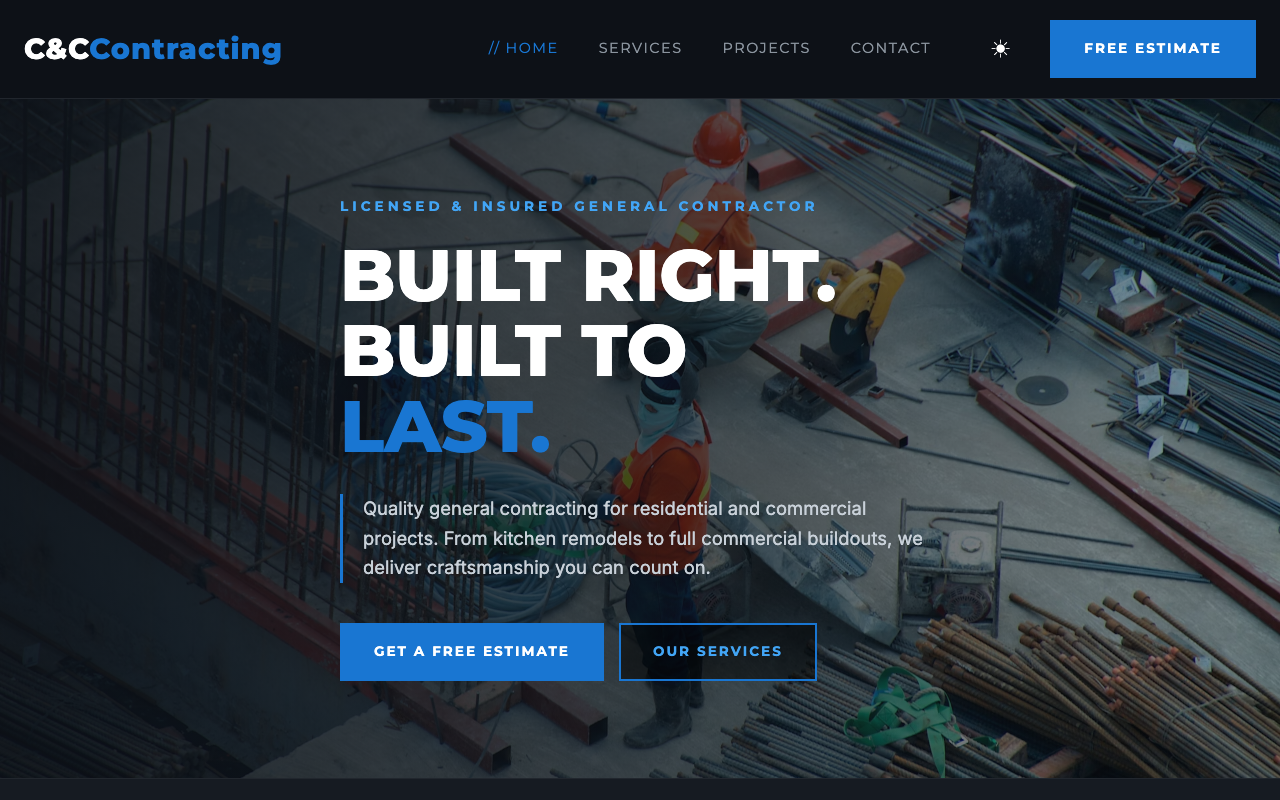
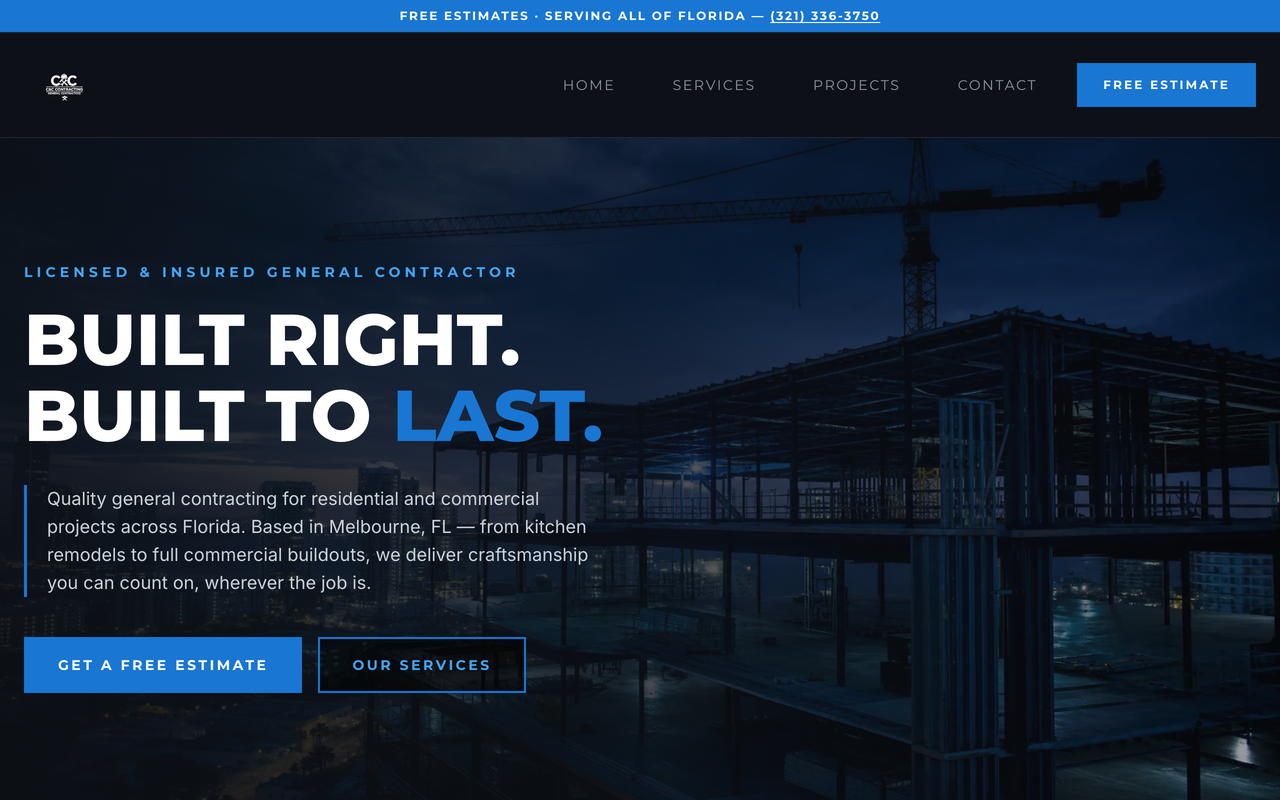
fix(portfolio): refresh live thumbnails + correct C&C link
Replace stale/missing portfolio screenshots with fresh captures of the
current live sites for Financial Aid Network, TnD Mechanical, and C&C
Contracting. FAN previously fell back to the generic "AI Voice Agent"
placeholder (no image committed); now shows the live site and is labeled
"Website & AI Voice Agent". Point the C&C card at candcontracting.com
instead of the old cccontracting.vercel.app URL.

diff --git a/app/page.tsx b/app/page.tsx
@@ -161,7 +161,7 @@ function Nav() {
             href={CALENDLY_URL}
             target="_blank"
             rel="noopener noreferrer"
-            className="rounded-full bg-gold px-5 py-3 text-sm font-semibold text-black transition-colors hover:bg-gold-light"
+            className="rounded-full bg-gold px-5 py-2 text-sm font-semibold text-black transition-colors hover:bg-gold-light"
           >
             Get in Touch
           </a>
@@ -171,7 +171,7 @@ function Nav() {
             href={CALENDLY_URL}
             target="_blank"
             rel="noopener noreferrer"
-            className="rounded-full bg-gold px-4 py-3 text-sm font-semibold text-black transition-colors hover:bg-gold-light"
+            className="rounded-full bg-gold px-4 py-2 text-sm font-semibold text-black transition-colors hover:bg-gold-light"
           >
             Get in Touch
           </a>
@@ -197,7 +197,7 @@ function Hero() {
         <p className="mb-4 text-sm font-medium uppercase tracking-[0.3em] text-gold">
           AI Solutions for Growing Businesses
         </p>
-        <h1 className="mb-6 font-serif text-4xl font-bold leading-tight tracking-tight sm:text-5xl md:text-7xl">
+        <h1 className="mb-6 font-serif text-5xl font-bold leading-tight tracking-tight md:text-7xl">
           Stop Losing Revenue
           <br />
           <span className="luxury-gradient">To Manual Workflows</span>
@@ -308,7 +308,7 @@ function Problem() {
   ];
 
   return (
-    <section className="px-6 py-16 md:py-24">
+    <section className="px-6 py-24">
       <div className="mx-auto max-w-4xl text-center">
         <ScrollReveal>
           <p className="mb-4 text-sm font-medium uppercase tracking-[0.3em] text-accent-gold">
@@ -326,7 +326,7 @@ function Problem() {
         <div className="grid gap-6 md:grid-cols-3">
           {cards.map((item, index) => (
             <ScrollReveal key={index} delay={index * 100}>
-              <TiltCard className="glass-card-interactive rounded-2xl p-6 md:p-8 text-left h-full">
+              <TiltCard className="glass-card-interactive rounded-2xl p-8 text-left h-full">
                 <div className="mb-4 text-gold">{item.icon}</div>
                 <h3 className="mb-2 text-lg font-semibold">{item.title}</h3>
                 <p className="text-sm leading-relaxed text-muted">{item.desc}</p>
@@ -392,7 +392,7 @@ const tiers = [
 
 function Services() {
   return (
-    <section id="services" className="px-6 py-16 md:py-24">
+    <section id="services" className="px-6 py-24">
       <div className="mx-auto max-w-6xl">
         <ScrollReveal>
           <div className="mb-16 text-center">
@@ -492,7 +492,7 @@ const caseStudies = [
 
 function CaseStudies() {
   return (
-    <section id="portfolio" className="px-6 py-16 md:py-24">
+    <section id="portfolio" className="px-6 py-24">
       <div className="mx-auto max-w-6xl">
         <ScrollReveal>
           <div className="mb-16 text-center">
@@ -537,9 +537,9 @@ const showcaseItems = [
   },
   {
     client: "Financial Aid Network",
-    type: "AI Voice Agent",
-    image: null,
-    url: null,
+    type: "Website & AI Voice Agent",
+    image: "/portfolio/financial-aid-network.png",
+    url: "https://financialaidnetwork.net",
   },
   {
     client: "TnD Mechanical",
@@ -551,7 +551,7 @@ const showcaseItems = [
     client: "C&C Contracting",
     type: "Brand Identity & Website",
     image: "/portfolio/cc-contracting.png",
-    url: "https://cccontracting.vercel.app",
+    url: "https://www.candcontracting.com",
   },
   {
     client: "Clicking with Carissa",
@@ -563,7 +563,7 @@ const showcaseItems = [
 
 function Showcase() {
   return (
-    <section id="our-work" className="px-6 py-16 md:py-24">
+    <section id="our-work" className="px-6 py-24">
       <div className="mx-auto max-w-6xl">
         <ScrollReveal>
           <div className="mb-16 text-center">
@@ -599,7 +599,7 @@ function ContactFormSection() {
               Tell us about your project. We&apos;ll review it and reach out with next steps.
             </p>
           </div>
-          <div className="rounded-lg border border-white/10 bg-white/5 p-6 md:p-8 backdrop-blur-sm">
+          <div className="rounded-lg border border-white/10 bg-white/5 p-8 backdrop-blur-sm">
             <ContactForm />
           </div>
         </div>
@@ -610,7 +610,7 @@ function ContactFormSection() {
 
 function CTAFooter() {
   return (
-    <section className="hero-gradient px-6 py-16 md:py-24">
+    <section className="hero-gradient px-6 py-24">
       <ScrollReveal>
         <div className="mx-auto max-w-3xl text-center">
           <h2 className="mb-4 font-serif text-3xl font-bold md:text-5xl">
@@ -624,7 +624,7 @@ function CTAFooter() {
             href={CALENDLY_URL}
             target="_blank"
             rel="noopener noreferrer"
-            className="cta-button inline-block rounded-full bg-gold px-8 md:px-10 py-3 md:py-4 text-base md:text-lg font-semibold text-black hover:bg-gold-light"
+            className="cta-button inline-block rounded-full bg-gold px-10 py-4 text-lg font-semibold text-black hover:bg-gold-light"
           >
             Get in Touch
           </a>
